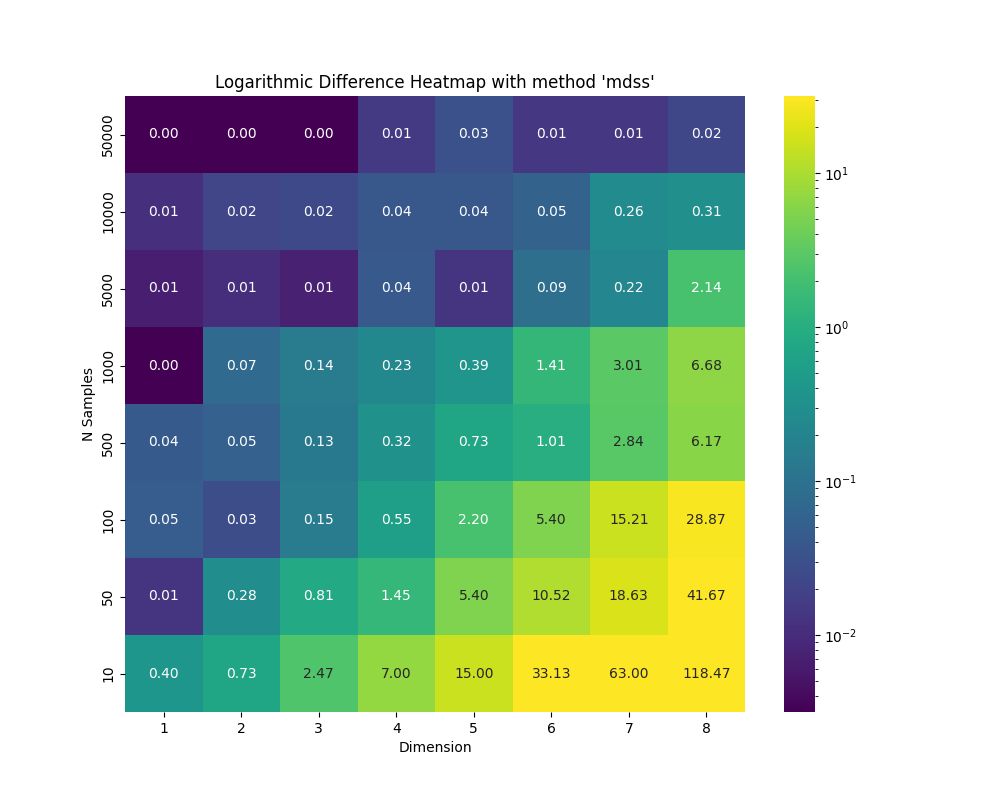
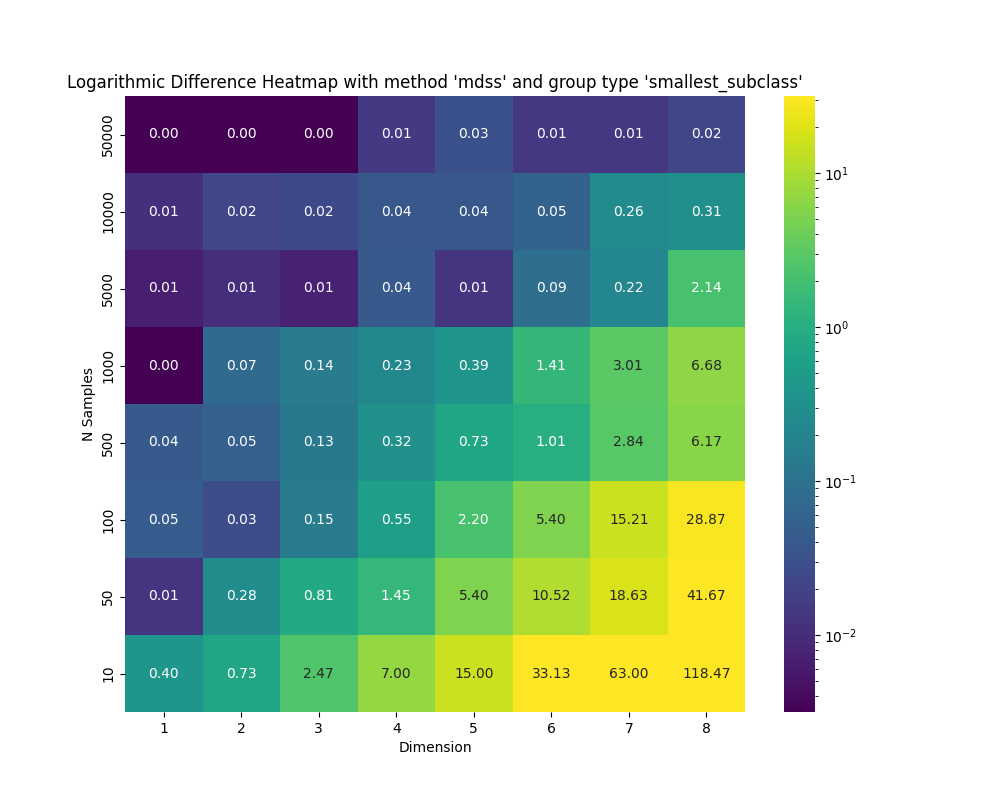
Extra graph

Changed region(s): [[0.062, 0.0938, 0.806, 0.125]]

diff --git a/variation_graph_maker.py b/variation_graph_maker.py
@@ -1,0 +1,103 @@
+import os
+import re
+from collections import defaultdict
+import matplotlib.pyplot as plt
+
+method = "brcg"
+
+base_dir = "multirun/2024-08-31/" + method
+
+extracted_data = []
+
+for i in range(400):
+    folder_path = os.path.join(base_dir, str(i))
+    output_file = os.path.join(folder_path, "output.txt")
+
+    if not os.path.isfile(output_file):
+        # print(f"Skipping folder {i}, no output.txt found.")
+        continue
+
+    with open(output_file, "r") as file:
+        lines = file.readlines()
+        if len(lines) < 2:
+            # print(f"Skipping folder {i}, insufficient lines in output.txt.")
+            continue
+
+        command_line = lines[1].strip()
+
+        dimension_match = re.search(r"-d (\d+)", command_line)
+        n_samples_match = re.search(r"-n (\d+)", command_line)
+
+        if dimension_match and n_samples_match:
+            dimension = int(dimension_match.group(1))
+            n_samples = int(n_samples_match.group(1))
+
+            if dimension != 3: continue
+
+            total_variation = None
+            final_objective = None
+            true_theoretical_sup = None
+            for line in lines:
+                if "Computed total variation:" in line:
+                    total_variation_match = re.search(r"Computed total variation:\s*([0-9.]+)", line)
+                    if total_variation_match:
+                        total_variation = float(total_variation_match.group(1))
+
+                if "Our final objective:" in line:
+                    final_objective_match = re.search(r"Our final objective:\s*([0-9.]+)", line)
+                    if final_objective_match:
+                        final_objective = float(final_objective_match.group(1))
+
+                if "The true theoretical sup(\\mu - \\nu) = " in line:
+                    theoretical_sup_match = re.search(r"The true theoretical sup\(\\mu - \\nu\) =\s*([0-9.]+)", line)
+                    if theoretical_sup_match:
+                        true_theoretical_sup = float(theoretical_sup_match.group(1))
+
+
+
+            if total_variation is not None and final_objective is not None and true_theoretical_sup is not None:
+                extracted_data.append((dimension, n_samples, total_variation, final_objective, true_theoretical_sup))
+
+
+data_dict_total_variation = defaultdict(float)
+data_dict_final_objective = defaultdict(float)
+data_dict_true_sup = defaultdict(float)
+cnt_dict = defaultdict(int)
+
+for dimension, n_samples, total_variation, final_objective, true_theoretical_sup in extracted_data:
+    data_dict_total_variation[n_samples] += total_variation
+    data_dict_final_objective[n_samples] += final_objective
+    data_dict_true_sup[n_samples] += true_theoretical_sup
+    cnt_dict[n_samples] += 1
+
+for n_samples in data_dict_total_variation:
+    data_dict_total_variation[n_samples] /= cnt_dict[n_samples]
+    data_dict_final_objective[n_samples] /= cnt_dict[n_samples]
+    data_dict_true_sup[n_samples] /= cnt_dict[n_samples]
+
+for n_samples in data_dict_total_variation:
+    print(f"{n_samples} -- Avg Total Variation: {data_dict_total_variation[n_samples]}, "
+          f"Avg Final Objective: {data_dict_final_objective[n_samples]}, "
+          f"Avg True Sup: {data_dict_true_sup[n_samples]}")
+
+sorted_n_samples = sorted(data_dict_total_variation.keys())
+sorted_variations = [data_dict_total_variation[n] for n in sorted_n_samples]
+sorted_objectives = [data_dict_final_objective[n] for n in sorted_n_samples]
+sorted_true_sup = [data_dict_true_sup[n] for n in sorted_n_samples]
+
+plt.figure(figsize=(10, 6))
+plt.plot(sorted_n_samples, sorted_variations, marker='o', linestyle='-', color='b', label='Average Total Variation')
+plt.plot(sorted_n_samples, sorted_objectives, marker='x', linestyle='--', color='r', label='Average Final Objective')
+plt.plot(sorted_n_samples, sorted_true_sup, marker='s', linestyle='-.', color='g', label='Average True Sup')
+
+plt.xscale('log')
+plt.xlabel('Number of Samples (n_samples) [Log Scale]')
+plt.ylabel('Value')
+plt.title(f'Average Total Variation, Final Objective, and True Sup vs. Number of Samples (dimension = 3)')
+plt.grid(True, which="both", ls=":")
+plt.legend()
+
+from datetime import date
+plt.savefig("multirun_images/" + str(date.today()) + "_" + method + "_total_variation_final_objective_true_sup_plot.png")
+
+plt.show()

diff --git a/heatmap_maker.py b/heatmap_maker.py
@@ -5,6 +5,10 @@ import matplotlib.pyplot as plt
 import seaborn as sns
 from collections import defaultdict
 
+method = "brcg"
+method = "onerule"
+method = "ripper"
+method = "mdss"
 method = "dnf_mio"
 
 base_dir = "multirun/2024-08-31/" + method
@@ -97,7 +101,7 @@ from matplotlib.colors import LogNorm
 sns.heatmap(heatmap_data, annot=True, fmt=".2f", xticklabels=dimensions, yticklabels=n_samples, cmap="viridis", norm=LogNorm(vmin=10**(-2.5), vmax=10**1.5)) # vmin=0, vmax=1)
 plt.xlabel("Dimension")
 plt.ylabel("N Samples")
-plt.title("Logarithmic Difference Heatmap with method '" + method + "'")
+plt.title("Logarithmic Difference Heatmap with method '" + method + "' and group type 'smallest_subclass'")
 plt.gca().invert_yaxis()
 
 from datetime import date
